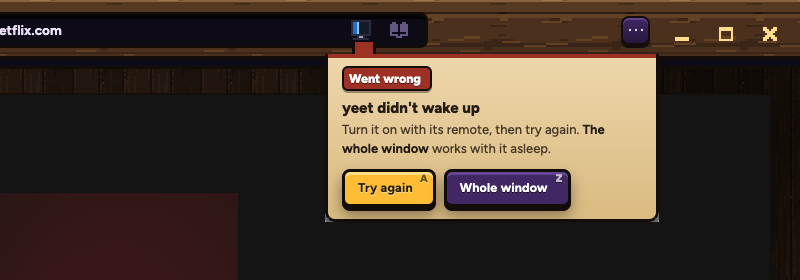
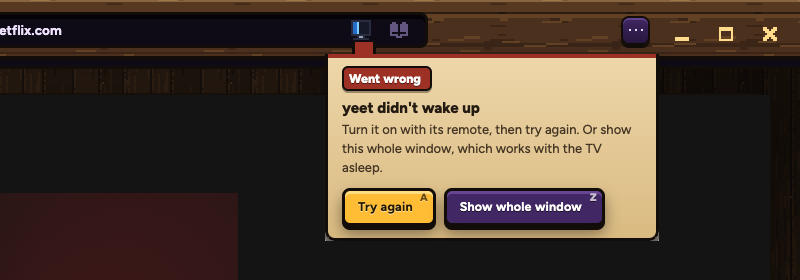
Sheet 99 v3: plain words in the Send to TV menu and the asleep notice (his "bad language")

Changed region(s): [[0.4062, 0.5143, 0.8438, 0.8571], [0.7188, 0.4286, 0.8125, 0.4857]]

diff --git a/src/Shell/test/electron/sheet99-shot.ts b/src/Shell/test/electron/sheet99-shot.ts
@@ -59,7 +59,7 @@ const RCLICK_JS = `(() => { document.getElementById('tabmenu')?.remove();
   const m = document.createElement('div'); m.id = 'tabmenu'; m.className = 'tabmenu ov99'; m.setAttribute('role', 'menu');
   const gh = (t) => m.append(Object.assign(document.createElement('div'), { className: 'gh', textContent: t }));
   const item = (t, off = false) => { const b = document.createElement('button'); b.type = 'button'; b.textContent = t; b.disabled = off; m.append(b); return b; };
-  gh('SEND TO YEET'); const first = item("In the TV's Netflix"); item('The whole window'); item('Just the video (not on Netflix)', true);
+  gh('SEND TO TV'); const first = item('Play in Netflix on the TV'); item('Show this whole window'); item('Send only the video', true);
   m.append(Object.assign(document.createElement('div'), { className: 'sep' })); item('TV settings');
   document.body.append(m); const t = document.getElementById('tvkey').getBoundingClientRect();
   m.style.left = Math.round(t.left - 10) + 'px'; m.style.top = Math.round(t.bottom + 6) + 'px';
@@ -75,13 +75,13 @@ const ASK_JS = (kind: 'link' | 'asleep') => `(() => {
   const tag = a.querySelector('.tag'); tag.textContent = ${kind === 'link' ? "'Your TV'" : "'Went wrong'"};
   const faces = a.querySelector('.faces'); faces.remove();
   a.querySelector('.q2').lastElementChild.textContent = ${kind === 'link' ? "'Link Samara to yeet'" : "\"yeet didn't wake up\""};
-  a.querySelector('.m').innerHTML = ${kind === 'link' ? "'Type the code your TV is showing. Only this once.'" : "'Turn it on with its remote, then try again. <b>The whole window</b> works with it asleep.'"};
+  a.querySelector('.m').innerHTML = ${kind === 'link' ? "'Type the code your TV is showing. Only this once.'" : "'Turn it on with its remote, then try again. Or show this whole window, which works with the TV asleep.'"};
   ${kind === 'link' ? `const row = document.createElement('div'); row.style.cssText = 'display:flex;gap:6px;margin:10px 0 2px';
     for (const ch of ['5', '5', 'F', '', '', '']) { const c = document.createElement('span'); c.textContent = ch;
       c.style.cssText = 'width:34px;height:40px;display:grid;place-items:center;border-radius:7px;border:3px solid #120A05;background:#0B0718;box-shadow:inset 0 3px 0 rgba(0,0,0,.6);font:800 18px Figtree,sans-serif;color:#ffe28c' + (ch === '' && !row.querySelector('.cur') ? ';box-shadow:inset 0 3px 0 rgba(0,0,0,.6),0 0 0 2px #FFC43C' : '');
       if (ch === '' && !row.querySelector('.cur')) c.className = 'cur'; row.append(c); }
     a.querySelector('.m').after(row);` : ''}
-  const ks = a.querySelectorAll('.keys button'); ks[0].firstElementChild.textContent = ${kind === 'link' ? "'Link'" : "'Try again'"}; ks[1].firstElementChild.textContent = ${kind === 'link' ? "'Not now'" : "'Whole window'"};
+  const ks = a.querySelectorAll('.keys button'); ks[0].firstElementChild.textContent = ${kind === 'link' ? "'Link'" : "'Try again'"}; ks[1].firstElementChild.textContent = ${kind === 'link' ? "'Not now'" : "'Show whole window'"};
   const t = document.getElementById('tvkey').getBoundingClientRect(), band = document.getElementById('band').getBoundingClientRect();
   a.style.width = '300px'; a.style.left = Math.round(t.left - band.left - 22) + 'px';
   document.getElementById('band').append(a); return 1; })()`;

diff --git a/docs/cockpit/sheet-99-send-to-tv.html b/docs/cockpit/sheet-99-send-to-tv.html
@@ -39,7 +39,7 @@
 <p class="lead">One click on the small TV in the address bar sends what you're watching to your TV, in the TV's own app, signed in as you. Samara picks the best way, pauses the video here, and answers YouTube's "Who's watching?" for you. Every picture is Samara itself, on today's bar.</p>
 
 <h2>1 · THE TV ICON, ALWAYS ONE CLICK AWAY</h2>
-<p class="sub">It shows in the address bar on any page with a video, dim until you point at it. One click sends. No menu, no choosing: the TV's own app if the site has one, otherwise just the video, otherwise the whole window.</p>
+<p class="sub">It shows in the address bar on any page with a video, dim until you point at it. One click sends. No menu, no choosing: the TV's own app if the site has one, otherwise only the video, otherwise this whole window.</p>
 <div class="steps">
   <figure><img src="sheet-99/idle.png" width="200"><figcaption><b>ON A VIDEO PAGE</b>Dim, out of the way.</figcaption></figure>
   <figure><img src="sheet-99/hover.png" width="200"><figcaption><b>POINTED AT</b>It lights up. Click to send.</figcaption></figure>
@@ -47,7 +47,7 @@
 <img src="sheet-99/bar-idle.png" style="width:1080px;margin-top:12px">
 
 <h2>RIGHT-CLICK IT FOR THE OTHER WAYS</h2>
-<p class="sub">When you want something else, like the whole window, it's in Samara's own right-click menu. Choices that can't work on this site are greyed out.</p>
+<p class="sub">When you want something else, like showing this whole window, it's in Samara's own right-click menu. Choices that can't work on this site are greyed out.</p>
 <img src="sheet-99/rclick.png" style="width:720px">
 
 <h2>2 · AFTER THE CLICK: THE TV ICON FILLS UP</h2>
@@ -65,7 +65,7 @@
 <img src="sheet-99/link.png" style="width:720px">
 
 <h2>4 · IF THE TV DOESN'T WAKE</h2>
-<p class="sub">Never silent. It says what happened and offers the whole window, which works with the TV asleep. It uses the notices' red for "went wrong".</p>
+<p class="sub">Never silent. It says what happened and offers to show this whole window, which works with the TV asleep. It uses the notices' red for "went wrong".</p>
 <img src="sheet-99/asleep.png" style="width:720px">
 
 <h2>5 · SETTINGS &gt; TV</h2>
@@ -81,7 +81,7 @@
 <tr><td>Netflix</td><td>Plays the show in the TV's Netflix (tested). Can't pick the minute; Netflix resumes on its own</td></tr>
 <tr><td>Stremio</td><td>Opens the show's page in the TV's Stremio (tested)</td></tr>
 <tr><td>Prime</td><td>Opens the Prime app only, so far (fixes to test)</td></tr>
-<tr><td>Other sites</td><td>Just the video, or the whole window, as today</td></tr>
+<tr><td>Other sites</td><td>Send only the video, or show this whole window, as today</td></tr>
 </table>
 </body>
 </html>
